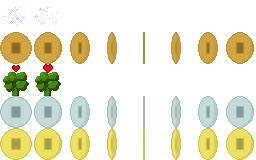
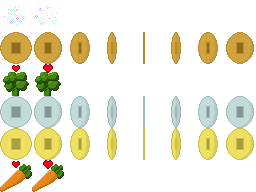
Add another health item.

diff --git a/lib/mid/item.c b/lib/mid/item.c
@@ -19,6 +19,7 @@ static void copperupdate(Item*,Player*,Lvl*);
 static void healthupdate(Item *, Player *, Lvl *);
 static void silverupdate(Item*,Player*,Lvl*);
 static void goldupdate(Item*,Player*,Lvl*);
+static void carrotupdate(Item*,Player*,Lvl*);
 
 static Sfx *goldgrab;
 static Sfx *gengrab;
@@ -37,7 +38,7 @@ static ItemOps ops[] = {
 		{ .row = 1, .len = 8, .delay = 150/Ticktm, .w = 32, .h = 32, .d = 150/Ticktm }
 	},
 	[ItemHealth] = {
-		"Heart",
+		"Broccoli",
 		"img/items.png",
 		healthupdate,
 		{ .row = 2, .len = 2, .delay = 600/Ticktm, .w = 32, .h = 32, .d = 600/Ticktm }
@@ -52,7 +53,13 @@ static ItemOps ops[] = {
 		"g",
 		"img/items.png",
 		goldupdate,
-		{ .row = 3, .len = 8, .delay = 150/Ticktm, .w = 32, .h = 32, .d = 150/Ticktm }
+		{ .row = 4, .len = 8, .delay = 150/Ticktm, .w = 32, .h = 32, .d = 150/Ticktm }
+	},
+	[ItemCarrot] = {
+		"Carrot",
+		"img/items.png",
+		carrotupdate,
+		{ .row = 5, .len = 2, .delay = 600/Ticktm, .w = 32, .h = 32, .d = 600/Ticktm }
 	},
 };
 
@@ -177,6 +184,16 @@ static void goldupdate(Item *i, Player *p, Lvl *l){
 	if(isect(i->body.bbox, playerbox(p))){
 		sfxplay(goldgrab);
 		p->money += 25;
+		i->gotit = 1;
+	}
+}
+
+static void carrotupdate(Item *i, Player *p, Lvl *l){
+	bodyupdate(&i->body, l);
+
+	if(isect(i->body.bbox, playerbox(p))){
+		sfxplay(gengrab);
+		playerheal(p, 5);
 		i->gotit = 1;
 	}
 }

diff --git a/cmd/mid/zone.c b/cmd/mid/zone.c
@@ -141,7 +141,7 @@ static FILE *zpipe(Rng *r)
 	pipeadd(&p, "lvlgen", "-s %u 25 25 3", rngint(r));
 	pipeadd(&p, "itmgen", "-s %u 1 1", rngint(r));
 	pipeadd(&p, "itmgen", "-s %u 2 2 2 2 2 4 4 5 50", rngint(r));
-	pipeadd(&p, "itmgen", "-s %u 3 10", rngint(r));
+	pipeadd(&p, "itmgen", "-s %u 3 3 3 3 6 10", rngint(r));
 	pipeadd(&p, "envgen", "-s %u 1 1", rngint(r));
 	pipeadd(&p, "enmgen", "-s %u 1 1 1 2 2 2 2 3 3 4 5 50", rngint(r));
 

diff --git a/include/mid.h b/include/mid.h
@@ -381,6 +381,7 @@ enum ItemID{
 	ItemHealth,
 	ItemSilver,
 	ItemGold,
+	ItemCarrot,
 	ItemMax
 };
 
